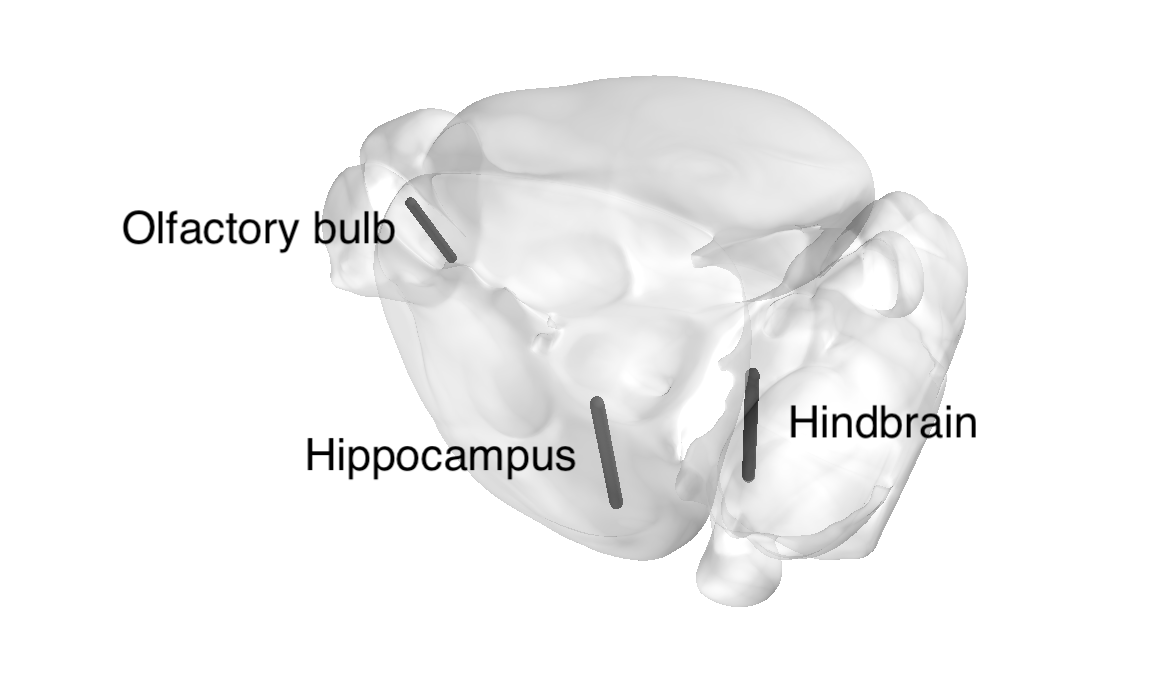
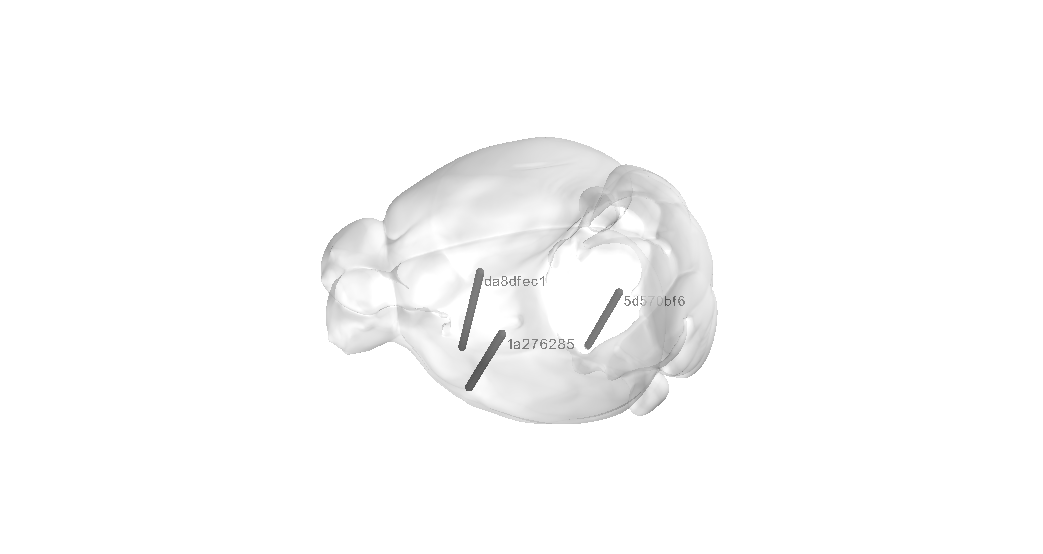
image pids

Changed region(s): [[0.092, 0.0921, 0.8591, 0.8899], [0.7057, 0.1841, 0.7363, 0.2148]]

diff --git a/sources/neural_course/images/scripts/images__3D_brain_trajectory_selectedpids.py b/sources/neural_course/images/scripts/images__3D_brain_trajectory_selectedpids.py
@@ -1,4 +1,7 @@
 '''
+THIS SCRIPT REQUIRES mayavi AND iblapps
+Please use iblenv to run it
+
 Neural course
 Plot the trajectories of the 3 selected PID in 3D
 '''
@@ -18,9 +21,9 @@ ba = AllenAtlas(25)
 allen = AllenAtlas()
 ba.compute_surface()
 
-pids = ['1e104bf4-7a24-4624-a5b2-c2c8289c0de7',
+pids = ['1a276285-8b0e-4cc9-9f0a-a3a002978724',
         '5d570bf6-a4c6-4bf1-a14b-2c878c84ef0e',
-        '6638cfb3-3831-4fc2-9327-194b76cf22e1']
+        'da8dfec1-d265-44e8-84ce-6ae9c109b8bd']
 
 # Download table of features
 path_features = Path('/Users/gaelle/Documents/Work/EphysAtlas/channels.pqt')
@@ -45,8 +48,14 @@ for pid in pids:
     xzy_trj = from_ins_xyz_ccf(ins_trj, pid, channels)
 
     # Plot
+    color = (0.2, 0.2, 0.2)  # Black
     mlab.points3d(xzy_trj[:, 1], xzy_trj[:, 2], xzy_trj[:, 0],
-                  color=(0.2, 0.2, 0.2))  # Black
+                  color=color)
 
-
-mlab.savefig('/Users/gaelle/Documents/Git/int-brain-lab/ibldevtools/Gaelle/courses/images/3_pids.png')
+    # set text
+    text_str = pid[0:8]
+    mlab.text3d(xzy_trj[-1, 1], xzy_trj[-1, 2], xzy_trj[-1, 0] - 500, text_str,
+                line_width=4, color=color, figure=fig, scale=300)
+##
+# ADJUST BY HAND THEN SAVE
+mlab.savefig('/Users/gaelle/Documents/Git/int-brain-lab/iblcourse/sources/neural_course/images/3_pids.png')
